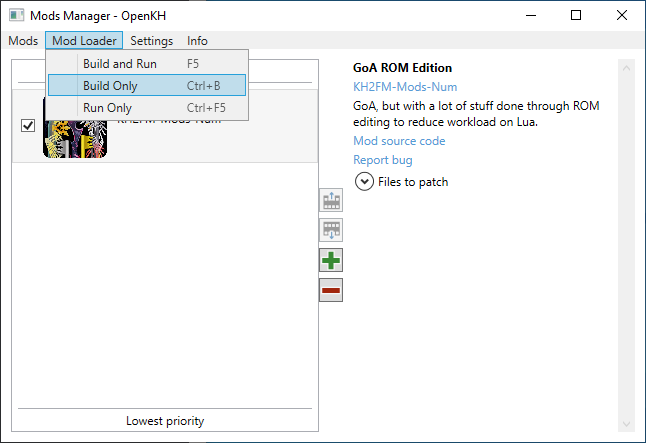
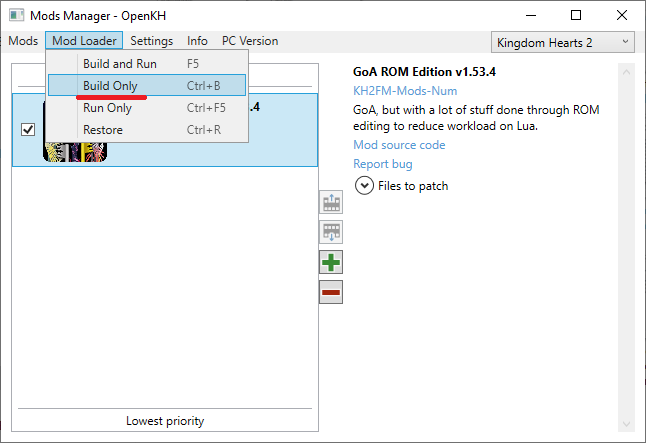
Updated PC Setup Guide
Updated PC Installation guide using screenshots of new OpenKH version, removed build_from_mm migration guide to reduce confusion.

diff --git a/docs/setup/Panacea-ModLoader/index.md b/docs/setup/Panacea-ModLoader/index.md
@@ -1,33 +1,35 @@
 # PC New Setup Guide
 
 ## Heads up!
-* Feel free to go to the [discord server](https://discord.gg/vKhdwNAmzE) for help with the setup, there is a dedicated help channel where you can find people to help you, if you're facing any difficulties. (P.S. Please be polite)
+* Feel free to go to the [discord server](https://discord.gg/vKhdwNAmzE) for help with the setup, there is a dedicated #help channel where you can find people to assist you if you're facing any difficulties. (P.S. Please be polite)
 * **You must run the game once** before you start the guide. Otherwise it may not boot up correctly after the randomizer is installed.
 * **VERIFY GAME FILES** through the Epic Games Launcher for Kingdom Hearts 1.5 + 2.5 Remix (v1.0.0.8_WW), they need to be clean/unpatched files for the extraction process to work.
 * Unofficial copies of the game are not supported, it is strongly recommended you buy and install the game directly from the Epic Game Store.
 
 ## Resources Needed:
-* [OpenKH Mod Manager](https://github.com/shananas/OpenKh/releases/download/release-372-KH2Rando/openkh-modmanager.zip)
+* [OpenKH Mod Manager](https://github.com/aliosgaming/OpenKh/tree/mod-manager-release)
 * [Seed Generator](https://github.com/tommadness/KH2Randomizer/releases/latest/download/Kingdom.Hearts.II.Final.Mix.Randomizer.zip)
-* [.NET6 Desktop Runtime](https://dotnet.microsoft.com/en-us/download/dotnet/thank-you/runtime-desktop-6.0.7-windows-x64-installer)
+* [.NET6 Desktop Runtime](https://dotnet.microsoft.com/en-us/download/dotnet/thank-you/runtime-desktop-6.0.13-windows-x64-installer)
 
 ## Installing OpenKh and Seed Generator
-1. Install .NET6 Runtime by running `windowsdesktop-runtime-6.0.7-win-x64.exe`
-2. Create a KH2 Rando Folder On Your Computer (Recommended *not* to be in your games installation folder)
-3. Extract OpenKH to this folder
-4. Extract Seed Generator to this Folder
+1. Install .NET6 Runtime by running the `runtime-desktop-6.0.13-windows-x64-installer` executable you just downloaded
+2. Create a KH2 Rando folder somewhere on your PC (Recommended *not* to be in your games installation folder). This is where you will put all your randomizer tools
+3. Extract OpenKH to this folder 
+4. Extract the Seed Generator to this Folder
+	- It's recommended to give each app its own subfolder to make navigating their files easier (See screenshot)
 
 ![Rando Folder](../images/Panacea-ModLoader/KH2%20Rando%20Folder.png)
 
 ## How to Setup The Mod Manager:
 1. Run the **"OpenKh.Tools.ModsManager.exe"** in the OpenKH folder 
-	- The Setup Wizard will open automatically, click **"Next"** to start.
+	- The Setup Wizard will open automatically, click **"Next"** to start
 2. Change game edition to **"PC Release Via Epic Games Store"**
-3. Then click the folder icon and navigate to your KH1.5_2.5 installation folder (The default is "C:\Program Files\Epic Games\KH_1.5_2.5" but this may differ from your own)
+3. Then click the folder icon and navigate to your KH1.5_2.5 installation folder (The default is `C:\Program Files\Epic Games\KH_1.5_2.5` but this may differ from your own)
 
 ![Setup Wizard-Game Edition](../images/Panacea-ModLoader/Game%20Edition%20Window.png)
 
 4. Click the **"Install OpenKH Panacea"** Button. This will install the mod loader to your game installation folder
+	- If you want to verify it was added successfully, check your game's install folder for a file called `DBGHELP.DLL`
 
 ![Panacea Wizard Window](../images/Panacea-ModLoader/Panacea%20Install%20Window.png)
 
@@ -35,12 +37,16 @@
 
 ![Launch Via Epic Games](../images/Panacea-ModLoader/Luanch%20Via%20Epic%20Games%20Option.png)
 
-6. Keep the extraction folder location as defaulted by the wizard, and click on the **"extract game data"** button. You will need to wait a few minutes for the process to complete. The game extraction totals to about 23GB so be sure you have room on your drive for it.
+6. The mod manager now has the option to extract multiple games from the KH1.5_2.5 collection. For the purposes of this guide you only need to extract KH2, but feel free to extract the others as well if you plan on modding those games, or for including their music in the seed generators "music rando" option. Once you are ready, press the **Extract Game Data** button to begin extraction. It usually takes 5-15 minutes (for KH2 alone) depending on your hardware so please be patient.
+7. Once the extraction is complete, click on **Next** and on the next window click **Finish**. You have successfully installed the Mods Manager!
 
 ![Extraction Window](../images/Panacea-ModLoader/Extraction%20Window.png)
 
 ## Garden of Assemblage Mod Installation:
-1. Click **"Mods"** in the top left
+Installing new mods into the mods manager is easy! Follow these steps to get the main Garden of Assemblage mod installed:
+
+1. Be sure the game selected in the top right of the main window shows **Kingdom Hearts 2**
+2. Next, Click **"Mods"** in the top left drop down menu
 
 ![Install New Mod](../images/Panacea-ModLoader/Install%20New%20Mod.png)
 
@@ -85,11 +91,12 @@
 2. This will open up a window to save the seed as a zip file. Save it anywhere that works for you (I like to place it in the same folder as the generator)
 3. Once saved, open up the mod manager and click on **"Mods"**, then **"Install a New Mod"**
 4. This time click on **"Select and Install Mod Archive"**, navigate to your new seed zip file and click **"Open"**
-5. Be sure to click on the check box next to the seed, then click on **"Build"** and **"Build Only"** to enable the mod in game. Note the 4 buttons to the right of the mod list. The First button lets you move a mod up the list, the second moves them down the list. The Green '+' icon is a shortcut to install a new mod, while the Red "-" icon is a shortcut to deleting a mod.
+5. Be sure to click on the check box next to the seed, then click on **"Build"** and **"Build Only"** to enable the mod in game. Note the 4 buttons to the right of the mod list. The First button lets you move a mod up the list, the second moves them down the list. The Green '+' icon is a shortcut to install a new mod, while the Red "-" icon is a shortcut to deleting a mod
+	- **How to install a new seed in the future:** Create a new zip seed file using the generator. Delete the current seed from your Mods Manager. Add the new zip seed to your mods manager. Enable the seed, "Build and Run"
 
 ![Install New Seed](../images/Panacea-ModLoader/Install%20New%20Seed-Updated.gif)
 
-### *Note: It is very important that the seed is always ABOVE the GoA ROM mod in the list. The Randomizer will not work otherwise.*
+### *Note: As you add more mods to the Mods Manager it is a general rule that the Seed goes at the **top** of the list and the GoA mod goes at the **bottom** unless a mods description says otherwise*
 
 *Editors note: I heavily recommend you install these two mods to help provide a better experience when playing rando -*
 

diff --git a/docs/index.md b/docs/index.md
@@ -9,9 +9,8 @@ title: Home
 
 # Installation Guides
 
-* [PC New Setup Guide](setup/Panacea-ModLoader/index.md)
+* [PC New Setup Guide](setup/Panacea-ModLoader/index.md) By Alios
 * [Emulator New Setup Guide](setup/pcsx2-ex-setup/pcsx2-ex-setup.md) By gameaddict
-* [Migrating from Mods Manager Bridge (PC version)](setup/mods-manager-bridge-migration/index.md)
 
 # Game/Randomizer Information
 
